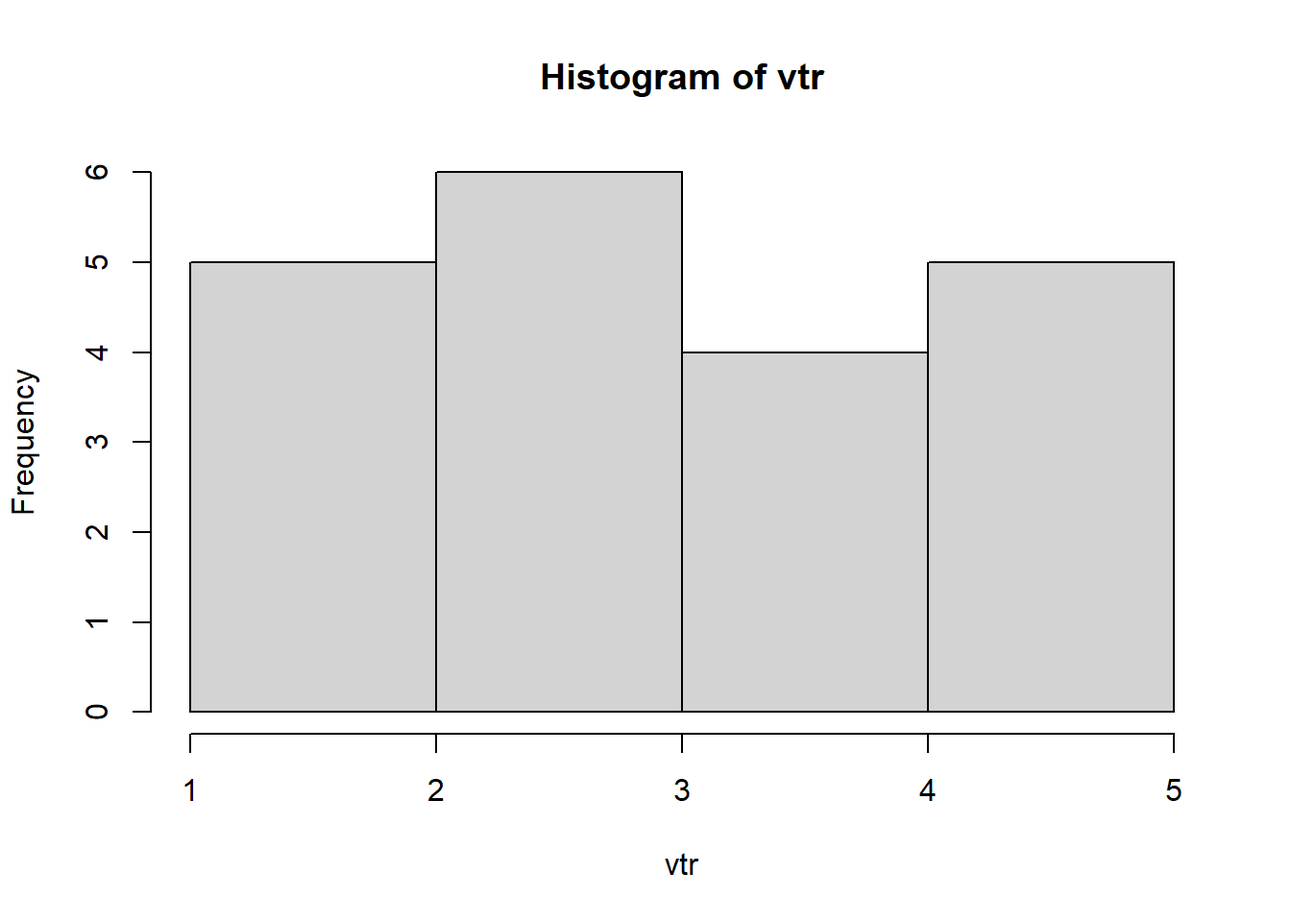
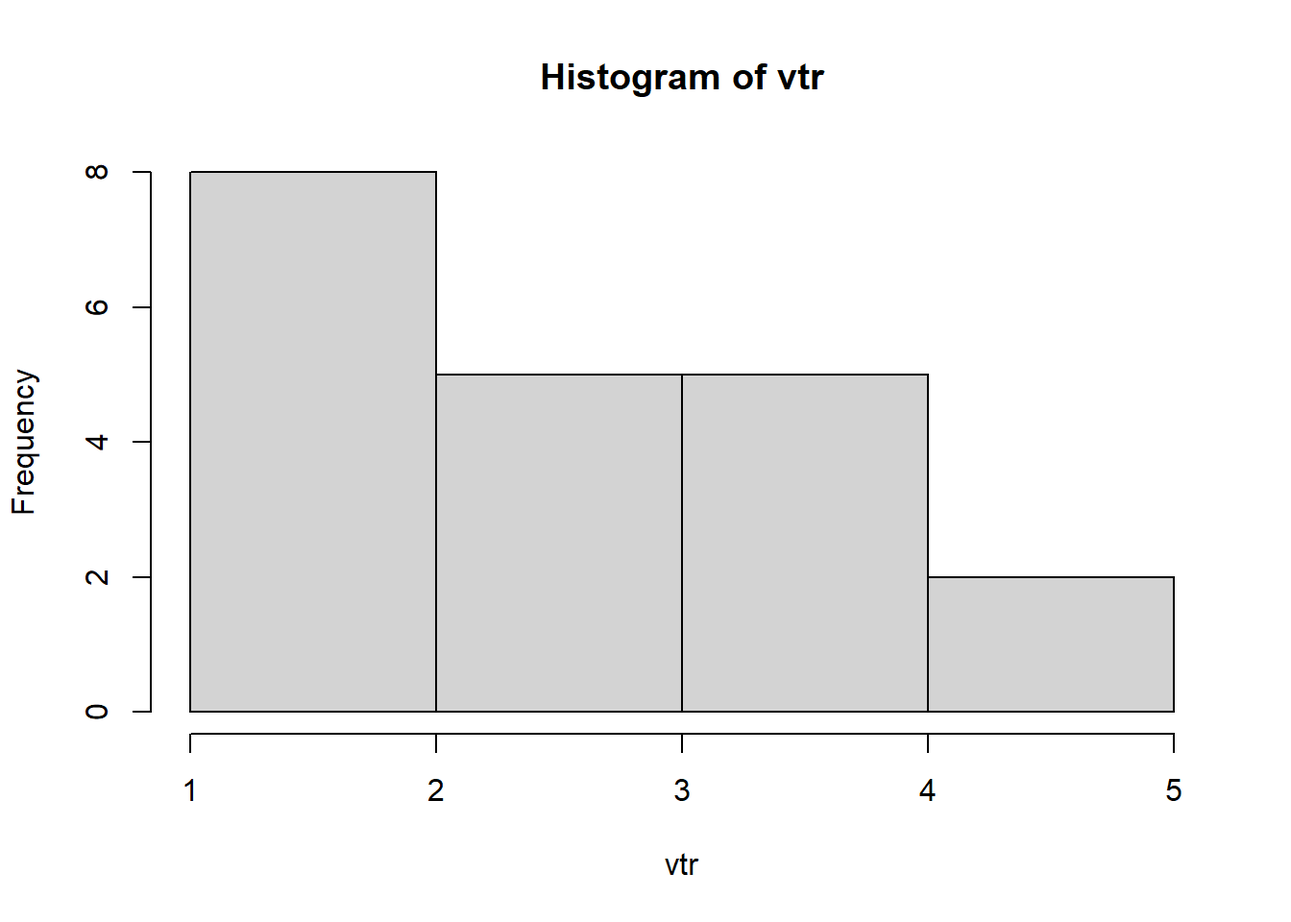
fx

diff --git a/03-r-environment.html b/03-r-environment.html
@@ -515,22 +515,28 @@ Important
  [3] "00-intro.html"              "00-intro.qmd"              
  [5] "01-what-is-r.html"          "01-what-is-r.qmd"          
  [7] "02-r-history.html"          "02-r-history.qmd"          
- [9] "03-r-environment.qmd"       "03-r-environment.rmarkdown"
-[11] "04-r-help.qmd"              "05-r-packages.qmd"         
-[13] "06-r-variables.qmd"         "07-r-basic-types.qmd"      
-[15] "08-r-operators.qmd"         "09-userful-math copy 2.qmd"
-[17] "09-userful-math copy 6.qmd" "09-userful-math.qmd"       
-[19] "10-r-functions.qmd"         "11-r-vectors.qmd"          
-[21] "12-r-data.frames.qmd"       "13-r-lists.qmd"            
-[23] "commands"                   "css"                       
-[25] "demo.qmd"                   "docs"                      
-[27] "identity"                   "img"                       
-[29] "index.html"                 "index.log"                 
-[31] "index.qmd"                  "index.tex"                 
-[33] "index_files"                "intro-to-r-source.Rproj"   
-[35] "references.bib"             "references.qmd"            
-[37] "site_libs"                  "summary.qmd"               
-[39] "tmp.RData"                 </code></pre>
+ [9] "03-r-environment.html"      "03-r-environment.qmd"      
+[11] "03-r-environment.rmarkdown" "03-r-environment_files"    
+[13] "04-r-help.html"             "04-r-help.qmd"             
+[15] "05-r-packages.html"         "05-r-packages.qmd"         
+[17] "06-r-variables.html"        "06-r-variables.qmd"        
+[19] "07-r-basic-types.html"      "07-r-basic-types.qmd"      
+[21] "08-r-operators.html"        "08-r-operators.qmd"        
+[23] "09-userful-math copy 2.qmd" "09-userful-math copy 6.qmd"
+[25] "09-userful-math.html"       "09-userful-math.qmd"       
+[27] "10-r-functions.html"        "10-r-functions.qmd"        
+[29] "11-r-vectors.html"          "11-r-vectors.qmd"          
+[31] "12-r-data.frames.html"      "12-r-data.frames.qmd"      
+[33] "13-r-lists.html"            "13-r-lists.qmd"            
+[35] "commands"                   "css"                       
+[37] "demo.qmd"                   "docs"                      
+[39] "identity"                   "img"                       
+[41] "index.html"                 "index.log"                 
+[43] "index.qmd"                  "index.tex"                 
+[45] "index_files"                "intro-to-r-source.Rproj"   
+[47] "references.bib"             "references.html"           
+[49] "references.qmd"             "site_libs"                 
+[51] "summary.qmd"                "tmp.RData"                 </code></pre>
 </div>
 <div class="sourceCode" id="cb19"><pre class="downlit sourceCode r code-with-copy"><code class="sourceCode R"><span><span class="fu"><a href="https://rdrr.io/r/base/list.files.html">list.files</a></span><span class="op">(</span><span class="op">)</span></span></code><button title="Copy to Clipboard" class="code-copy-button"><i class="bi"></i></button></pre></div>
 <div class="cell-output cell-output-stdout">
@@ -538,22 +544,28 @@ Important
  [3] "00-intro.html"              "00-intro.qmd"              
  [5] "01-what-is-r.html"          "01-what-is-r.qmd"          
  [7] "02-r-history.html"          "02-r-history.qmd"          
- [9] "03-r-environment.qmd"       "03-r-environment.rmarkdown"
-[11] "04-r-help.qmd"              "05-r-packages.qmd"         
-[13] "06-r-variables.qmd"         "07-r-basic-types.qmd"      
-[15] "08-r-operators.qmd"         "09-userful-math copy 2.qmd"
-[17] "09-userful-math copy 6.qmd" "09-userful-math.qmd"       
-[19] "10-r-functions.qmd"         "11-r-vectors.qmd"          
-[21] "12-r-data.frames.qmd"       "13-r-lists.qmd"            
-[23] "commands"                   "css"                       
-[25] "demo.qmd"                   "docs"                      
-[27] "identity"                   "img"                       
-[29] "index.html"                 "index.log"                 
-[31] "index.qmd"                  "index.tex"                 
-[33] "index_files"                "intro-to-r-source.Rproj"   
-[35] "references.bib"             "references.qmd"            
-[37] "site_libs"                  "summary.qmd"               
-[39] "tmp.RData"                 </code></pre>
+ [9] "03-r-environment.html"      "03-r-environment.qmd"      
+[11] "03-r-environment.rmarkdown" "03-r-environment_files"    
+[13] "04-r-help.html"             "04-r-help.qmd"             
+[15] "05-r-packages.html"         "05-r-packages.qmd"         
+[17] "06-r-variables.html"        "06-r-variables.qmd"        
+[19] "07-r-basic-types.html"      "07-r-basic-types.qmd"      
+[21] "08-r-operators.html"        "08-r-operators.qmd"        
+[23] "09-userful-math copy 2.qmd" "09-userful-math copy 6.qmd"
+[25] "09-userful-math.html"       "09-userful-math.qmd"       
+[27] "10-r-functions.html"        "10-r-functions.qmd"        
+[29] "11-r-vectors.html"          "11-r-vectors.qmd"          
+[31] "12-r-data.frames.html"      "12-r-data.frames.qmd"      
+[33] "13-r-lists.html"            "13-r-lists.qmd"            
+[35] "commands"                   "css"                       
+[37] "demo.qmd"                   "docs"                      
+[39] "identity"                   "img"                       
+[41] "index.html"                 "index.log"                 
+[43] "index.qmd"                  "index.tex"                 
+[45] "index_files"                "intro-to-r-source.Rproj"   
+[47] "references.bib"             "references.html"           
+[49] "references.qmd"             "site_libs"                 
+[51] "summary.qmd"                "tmp.RData"                 </code></pre>
 </div>
 </div>
 </section><section id="робота-з-rstudio" class="level2" data-number="3.5"><h2 data-number="3.5" class="anchored" data-anchor-id="робота-з-rstudio">
@@ -655,7 +667,7 @@ Note
 <div class="sourceCode" id="cb21"><pre class="downlit sourceCode r code-with-copy"><code class="sourceCode R"><span><span class="va">vtr</span> <span class="op">&lt;-</span> <span class="fu"><a href="https://rdrr.io/r/base/sample.html">sample</a></span><span class="op">(</span><span class="fl">1</span><span class="op">:</span><span class="fl">5</span>, <span class="fl">20</span>, replace<span class="op">=</span><span class="cn">TRUE</span><span class="op">)</span></span>
 <span><span class="va">vtr</span></span></code><button title="Copy to Clipboard" class="code-copy-button"><i class="bi"></i></button></pre></div>
 <div class="cell-output cell-output-stdout">
-<pre><code> [1] 3 2 3 2 1 4 4 5 2 4 4 3 3 5 5 1 3 5 5 3</code></pre>
+<pre><code> [1] 2 3 4 2 4 2 3 4 1 3 4 2 1 5 4 5 2 3 3 2</code></pre>
 </div>
 </div>
 <div class="callout-important callout callout-style-default callout-captioned">
@@ -678,11 +690,11 @@ Important
 <span></span>
 <span><span class="fu"><a href="https://rdrr.io/r/base/print.html">print</a></span><span class="op">(</span><span class="fu"><a href="https://rdrr.io/r/base/paste.html">paste0</a></span><span class="op">(</span><span class="st">"Sum: "</span>, <span class="va">vtr_sum</span><span class="op">)</span><span class="op">)</span></span></code><button title="Copy to Clipboard" class="code-copy-button"><i class="bi"></i></button></pre></div>
 <div class="cell-output cell-output-stdout">
-<pre><code>[1] "Sum: 67"</code></pre>
+<pre><code>[1] "Sum: 59"</code></pre>
 </div>
 <div class="sourceCode" id="cb25"><pre class="downlit sourceCode r code-with-copy"><code class="sourceCode R"><span><span class="fu"><a href="https://rdrr.io/r/base/print.html">print</a></span><span class="op">(</span><span class="fu"><a href="https://rdrr.io/r/base/paste.html">paste0</a></span><span class="op">(</span><span class="st">"Mean: "</span>, <span class="va">vtr_mean</span><span class="op">)</span><span class="op">)</span></span></code><button title="Copy to Clipboard" class="code-copy-button"><i class="bi"></i></button></pre></div>
 <div class="cell-output cell-output-stdout">
-<pre><code>[1] "Mean: 3.35"</code></pre>
+<pre><code>[1] "Mean: 2.95"</code></pre>
 </div>
 </div>
 <p>Виведемо гістограму:</p>

diff --git a/02-r-history.html b/02-r-history.html
@@ -19,25 +19,6 @@ ul.task-list li input[type="checkbox"] {
   margin: 0 0.8em 0.2em -1.6em;
   vertical-align: middle;
 }
-div.csl-bib-body { }
-div.csl-entry {
-  clear: both;
-}
-.hanging div.csl-entry {
-  margin-left:2em;
-  text-indent:-2em;
-}
-div.csl-left-margin {
-  min-width:2em;
-  float:left;
-}
-div.csl-right-inline {
-  margin-left:2em;
-  padding-left:1em;
-}
-div.csl-indent {
-  margin-left: 2em;
-}
 </style>
 
 <script src="site_libs/quarto-nav/quarto-nav.js"></script>
@@ -271,16 +252,11 @@ div.csl-indent {
   
 
 </header><p>Мова програмування <code>R</code> виникла як продовження статистичної мови <code>S</code>. Назва мови <code>S</code> була обрана аналогічно до <code>C</code>. Створена <code>S</code> була у 1976 році компанією <code>Bell Labs</code>. Мова <code>S</code> мала кілька версій і широко використовувалася для комерційного програмування. Найпотужнішою була версія <code>S-Plus</code>, що мала реалізацію за досить немалу кількість функцій під <code>Windows</code> та <code>Unix</code>-платформи, що стримувало її розвиток. Саме в цей момент розпочинається історія <code>R</code>.</p>
-<p>Влітку 1993 року двоє молодих новозеландських вчених анонсували свлю нову розробку, яку вони назвали <code>R</code> (є інформація, що буква “R” була обрана тому, що вона стоїть перед “S” у латинському алфавіті, тут є аналогія з мовою “C”, якій передувала мова “B”) <span class="citation" data-cites="r-stats-book">(<a href="references.html#ref-r-stats-book" role="doc-biblioref">А.Б. Шипунов, Е.М. Балдин, П.А. Волкова, А.И. Коробейников, С.А. Назарова, С.В. Петров, В.Г. Суфиянов. 2012</a>)</span>. За задумом авторів (Robert Gentelman та Ross Ihaka) це повинна була бути нова реалізація мови <code>S</code>, що відрізнялася від <code>S-Plus</code> деякими деталями, наприклад, роботою з локальними та глобальними змінними, пам’яттю тощо. Фактично було створено нову мову, що відгалуджується від <code>S</code>.</p>
+<p>Влітку 1993 року двоє молодих новозеландських вчених анонсували свлю нову розробку, яку вони назвали <code>R</code> (є інформація, що буква “R” була обрана тому, що вона стоїть перед “S” у латинському алфавіті, тут є аналогія з мовою “C”, якій передувала мова “B”). За задумом авторів (Robert Gentelman та Ross Ihaka) це повинна була бути нова реалізація мови <code>S</code>, що відрізнялася від <code>S-Plus</code> деякими деталями, наприклад, роботою з локальними та глобальними змінними, пам’яттю тощо. Фактично було створено нову мову, що відгалуджується від <code>S</code>.</p>
 <p>Проект з самого початку розвивався досить повільно, але коли у команди розробників <code>R</code> з’явлися ресурси, в тому числі зручна системи створення розширень (пакетів), все більше аналітиків, статистиків, вчених, програмістів почало переходити з <code>S-Plus</code> на <code>R</code>. Коли були усунуті проблеми роботи з пам’яттю перших версій <code>R</code>, на цю мову почали переходити користувачі інших статистичних пакетів (SAS, Stata, SYSSTAT).</p>
 <p>Кількість книг та публікацій у мережі Інтернет по роботі з R постійно зростає разом із зацікавленням молодих і вже досвідчених спеціалістів зі сфери ІТ темою науки про дані, машинним навчанням, аналітикою для бізнесу, охорони здоров’я тощо.</p>
 
 
-<div id="refs" class="references csl-bib-body hanging-indent" role="doc-bibliography" style="display: none">
-<div id="ref-r-stats-book" class="csl-entry" role="doc-biblioentry">
-А.Б. Шипунов, Е.М. Балдин, П.А. Волкова, А.И. Коробейников, С.А. Назарова, С.В. Петров, В.Г. Суфиянов. 2012. <em>Наглядная Статистика. Используем r!</em> Москва, Росія: ДМК Пресс.
-</div>
-</div>
 
 </main><!-- /main --><script id="quarto-html-after-body" type="application/javascript">
 window.document.addEventListener("DOMContentLoaded", function (event) {

diff --git a/00-intro.html b/00-intro.html
@@ -19,6 +19,25 @@ ul.task-list li input[type="checkbox"] {
   margin: 0 0.8em 0.2em -1.6em;
   vertical-align: middle;
 }
+div.csl-bib-body { }
+div.csl-entry {
+  clear: both;
+}
+.hanging div.csl-entry {
+  margin-left:2em;
+  text-indent:-2em;
+}
+div.csl-left-margin {
+  min-width:2em;
+  float:left;
+}
+div.csl-right-inline {
+  margin-left:2em;
+  padding-left:1em;
+}
+div.csl-indent {
+  margin-left: 2em;
+}
 </style>
 
 <script src="site_libs/quarto-nav/quarto-nav.js"></script>
@@ -249,11 +268,16 @@ ul.task-list li input[type="checkbox"] {
 
 </header><p>Фахівці спеціальності економічна кібернетика у майбутньому працюватимуть з великими масивами даних, що накопичуються велизними темпами у даний момент і збиралися у попередні дисятиліття. Підготовка, обробка і трансформація даних у зручний формат прийняття рішень забирає все більше часу, а звичні рашіне інструменти аналізу даних, як наприклад, <code>Microsoft Excel</code> не мають достатньо вбудованих можливостей для виконнання задач бізнесу.</p>
 <p>На даний час існує велика кількість мов програмування, що інтегруються у суспільні сфери діяльності людини та роботи технічних систем: біоінформатика, а також економіка та бізнес.</p>
-<p>Однією з мов програмування, що отримали широке поишення серед економістів-науковців, аналітиків та практиків математичного моделювання (<code>machine learning</code>) є мова програмування <code>(R)</code><span class="citation" data-cites="r-cran">(<a href="references.html#ref-r-cran" role="doc-biblioref"><strong>r-cran?</strong></a>)</span>. Свою популярність ця мова програмування здобула завдяки простоті у використанні, доступності (безкоштовні як базові компоненти для написання коду, так і середовища розробки), розширюваності (кожен розробник має можливість створювати власні пакети та публікувати їх у відкритому доступі).</p>
+<p>Однією з мов програмування, що отримали широке поишення серед економістів-науковців, аналітиків та практиків математичного моделювання (<code>machine learning</code>) є мова програмування <code>(R)</code><span class="citation" data-cites="r-base">(<a href="references.html#ref-r-base" role="doc-biblioref">R Core Team 2020</a>)</span>. Свою популярність ця мова програмування здобула завдяки простоті у використанні, доступності (безкоштовні як базові компоненти для написання коду, так і середовища розробки), розширюваності (кожен розробник має можливість створювати власні пакети та публікувати їх у відкритому доступі).</p>
 <p>Основними задачами курсу “Вступ до прграмування в R” є ознайомлення студентів з базовми конструкціями мови програмування R, вивчення способів роботи з найпоширенішими типами даних,</p>
 <hr>
 
 
+<div id="refs" class="references csl-bib-body hanging-indent" role="doc-bibliography" style="display: none">
+<div id="ref-r-base" class="csl-entry" role="doc-biblioentry">
+R Core Team. 2020. <em>R: A Language and Environment for Statistical Computing</em>. Vienna, Austria: R Foundation for Statistical Computing. <a href="https://www.R-project.org/">https://www.R-project.org/</a>.
+</div>
+</div>
 
 </main><!-- /main --><script id="quarto-html-after-body" type="application/javascript">
 window.document.addEventListener("DOMContentLoaded", function (event) {

diff --git a/index.html b/index.html
@@ -324,18 +324,15 @@ code span.wa { color: #60a0b0; font-weight: bold; font-style: italic; } /* Warni
   </div>
   
 
-</header>
-<section id="про-курс" class="level1 unnumbered"><h1 class="unnumbered">Про курс</h1><p><img src="img/cover.png" title="Вступ до програмування в R" class="quarto-cover-image img-fluid"></p>
-<p>Матеріали підготовлені для читання курсу <strong>“Вступ до програмування в R”</strong> <code>[05.250]</code> для студентів 1-го року навчання, спеціальності економічна кібернетика.</p>
+</header><p><img src="img/cover.png" title="Вступ до програмування в R" class="quarto-cover-image img-fluid"></p>
 <div style="float:left">
 <div class="quarto-figure quarto-figure-center">
 <figure class="figure"><p><a href="https://doi.org/10.5281/zenodo.7251420"><img src="https://zenodo.org/badge/DOI/10.5281/zenodo.7251420.svg" class="img-fluid figure-img"></a></p>
 </figure>
 </div>
 </div>
-<div style="clear:both">
-
-</div>
+<section id="про-курс" class="level1 unnumbered"><h1 class="unnumbered">Про курс</h1>
+<p>Матеріали підготовлені для читання курсу <strong>“Вступ до прикладного програмування в R”</strong> <code>[05.250]</code> для студентів 1-го року навчання, спеціальності економічна кібернетика.</p>
 <section id="опис-навчальної-дисципліни" class="level2"><h2 class="anchored" data-anchor-id="опис-навчальної-дисципліни">Опис навчальної дисципліни</h2>
 <p>Навчальна дисципліна спрямована на вивчення основ практичного застосування популярної мови <a href="@r-cran"><code>R</code></a> для проведення статистичних досліджень в економіці.</p>
 <p>У процесі вивчення курсу розглядаються теми, що стосуються теоретичних основ та практичної реалізації алгоритмів завантаження, підготовки та обробки економічних даних.</p>

diff --git a/04-r-help.html b/04-r-help.html
@@ -341,7 +341,7 @@ div.csl-indent {
 <p>Розглянемо для прикладу візуалізацію інформації про функцію <code><a href="https://rdrr.io/r/base/mean.html">mean()</a></code>, що використовується для знаходження середнього значення:</p>
 <div class="sourceCode" id="cb3"><pre class="downlit sourceCode r code-with-copy"><code class="sourceCode R"><span><span class="fu"><a href="https://rdrr.io/r/utils/help.html">help</a></span><span class="op">(</span><span class="va">mean</span><span class="op">)</span></span></code><button title="Copy to Clipboard" class="code-copy-button"><i class="bi"></i></button></pre></div>
 <div id="fig-help-1" class="quarto-figure quarto-figure-center anchored">
-<figure class="figure"><p><img src="img/01/help_mean.png" class="img-fluid figure-img"></p>
+<figure class="figure"><p><img src="img/01/help-mean.png" class="img-fluid figure-img"></p>
 <p></p><figcaption class="figure-caption">Рис.&nbsp;4.1: Скріншот інформації про функцію <code><a href="https://rdrr.io/r/base/mean.html">mean()</a></code> з пакету <code>base</code>(<span class="citation" data-cites="r-base">R Core Team (<a href="references.html#ref-r-base" role="doc-biblioref">2020</a>)</span>)</figcaption><p></p>
 </figure>
 </div>

diff --git a/references.html b/references.html
@@ -297,11 +297,6 @@ Computing</em>. Vienna, Austria: R Foundation for Statistical Computing.
 <div id="ref-visual-studio" class="csl-entry" role="doc-biblioentry">
 <em>Visual Studio Community Edition</em>. 2021. Microsoft. <a href="https://visualstudio.microsoft.com/">https://visualstudio.microsoft.com/</a>.
 </div>
-<div id="ref-r-stats-book" class="csl-entry" role="doc-biblioentry">
-А.Б. Шипунов, Е.М. Балдин, П.А. Волкова, А.И. Коробейников, С.А.
-Назарова, С.В. Петров, В.Г. Суфиянов. 2012. <em>Наглядная Статистика.
-Используем r!</em> Москва, Росія: ДМК Пресс.
-</div>
 </div>
 
 
